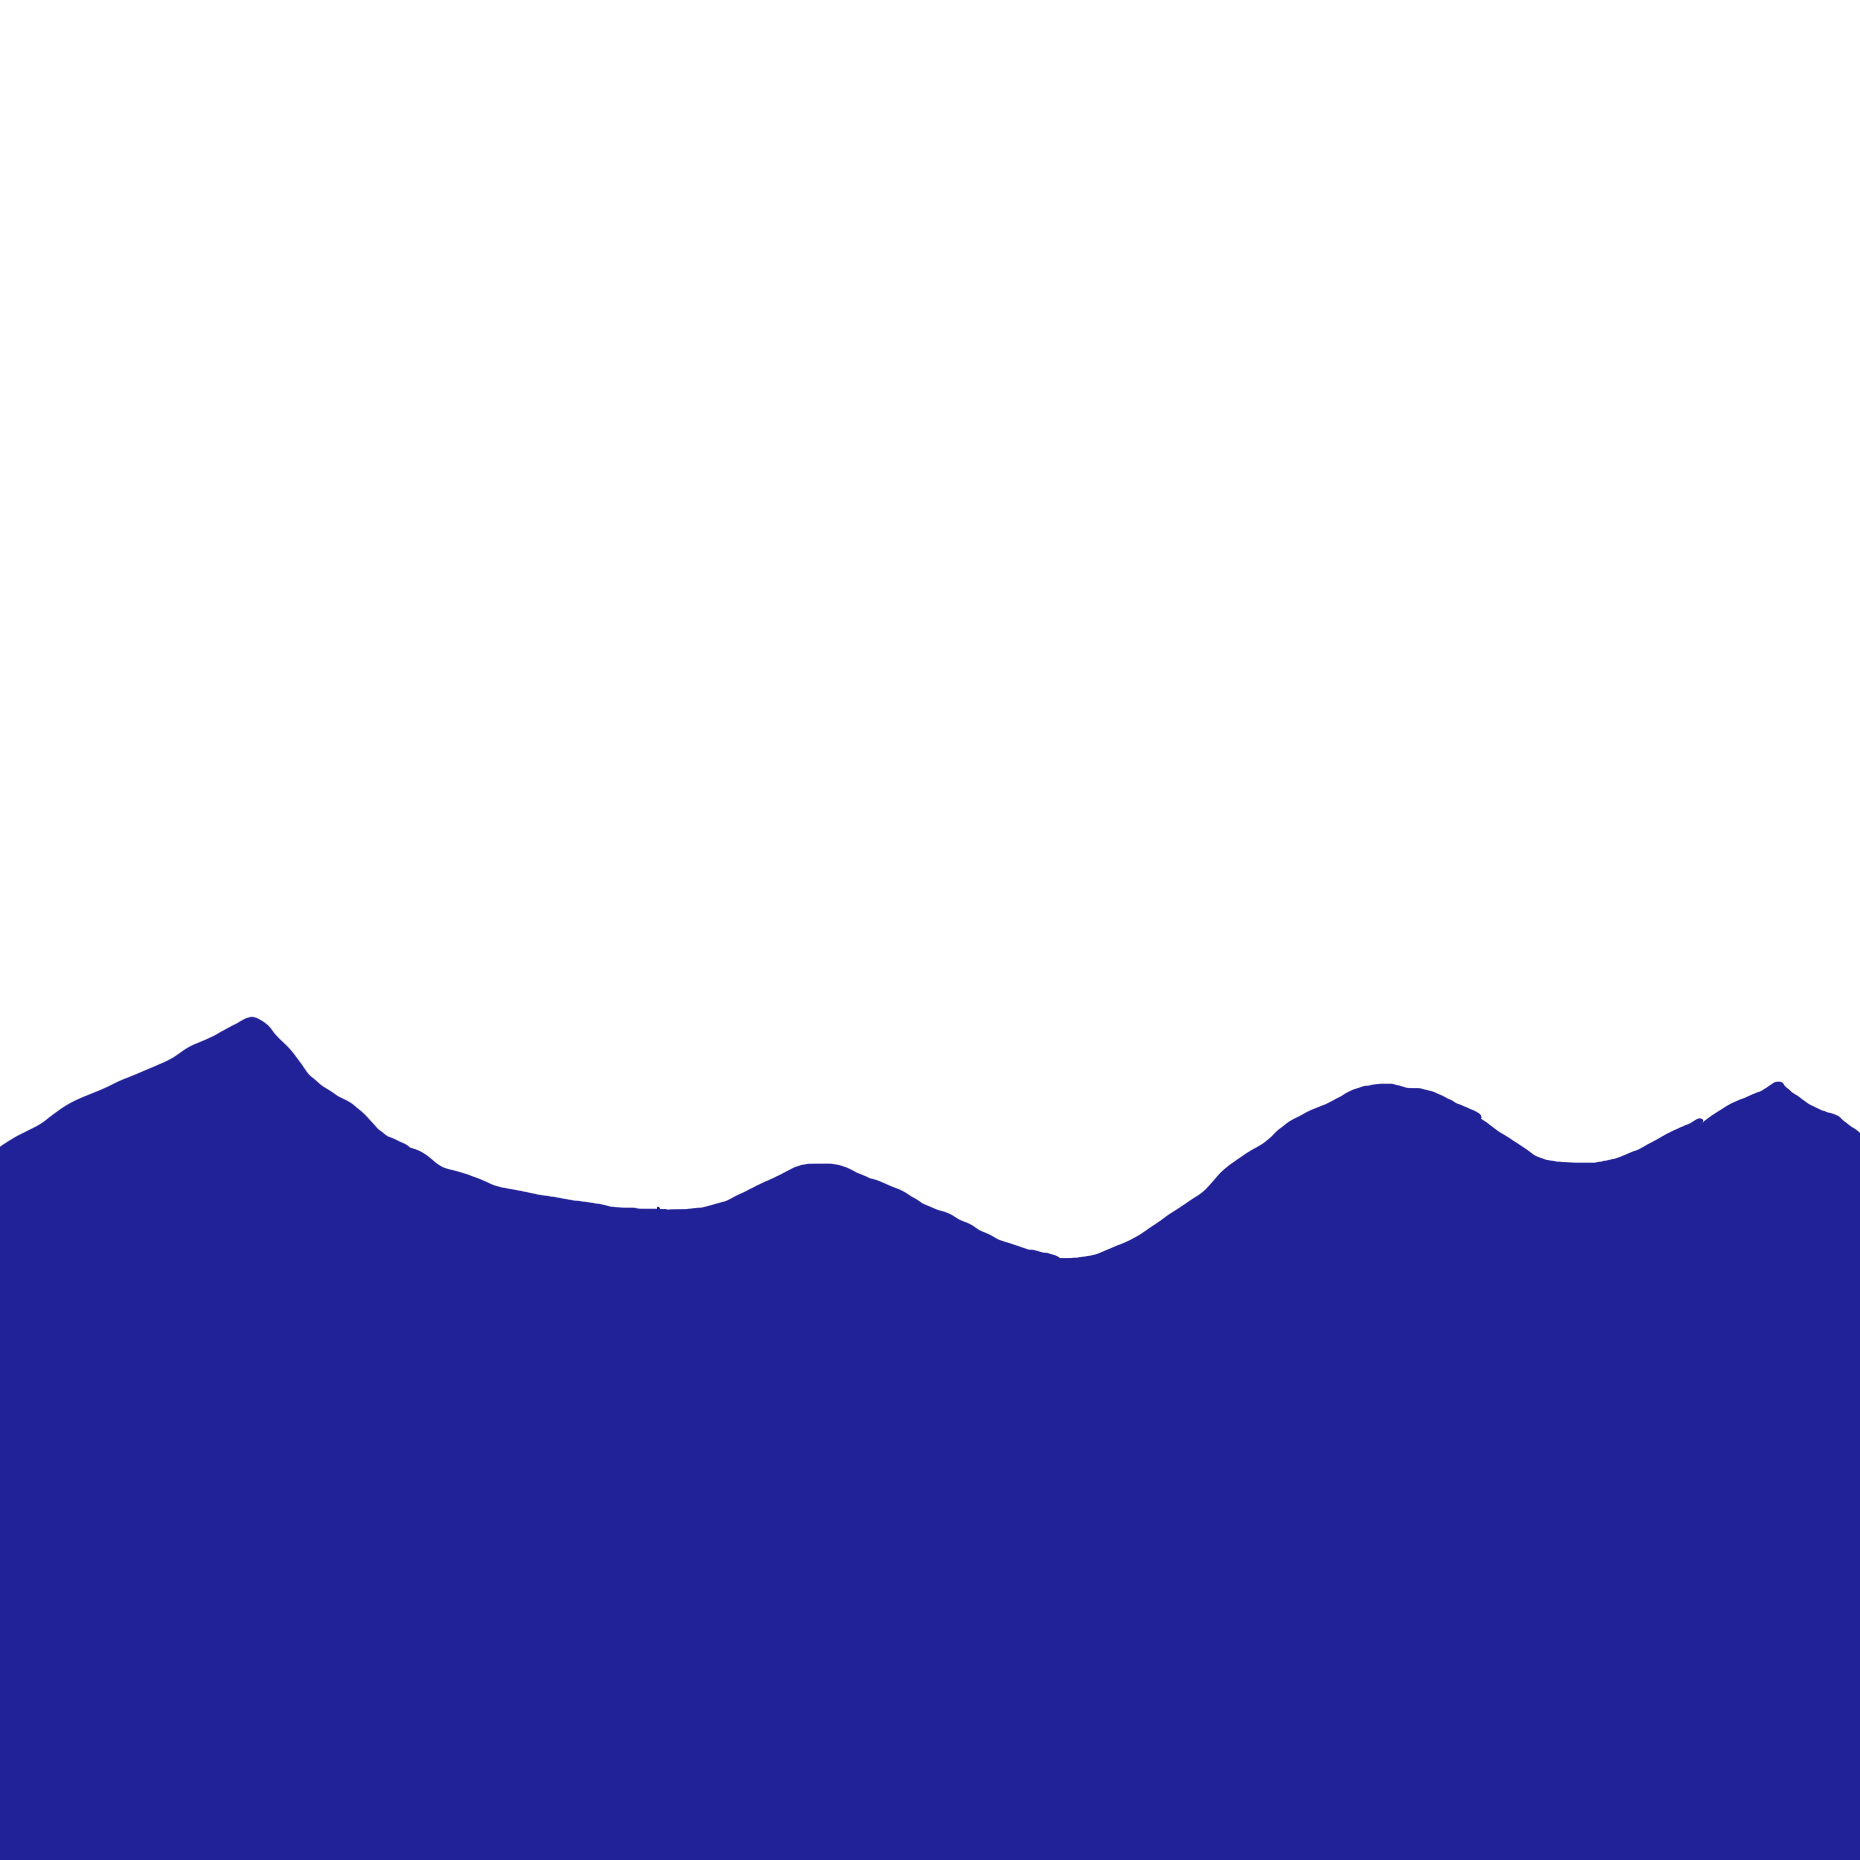
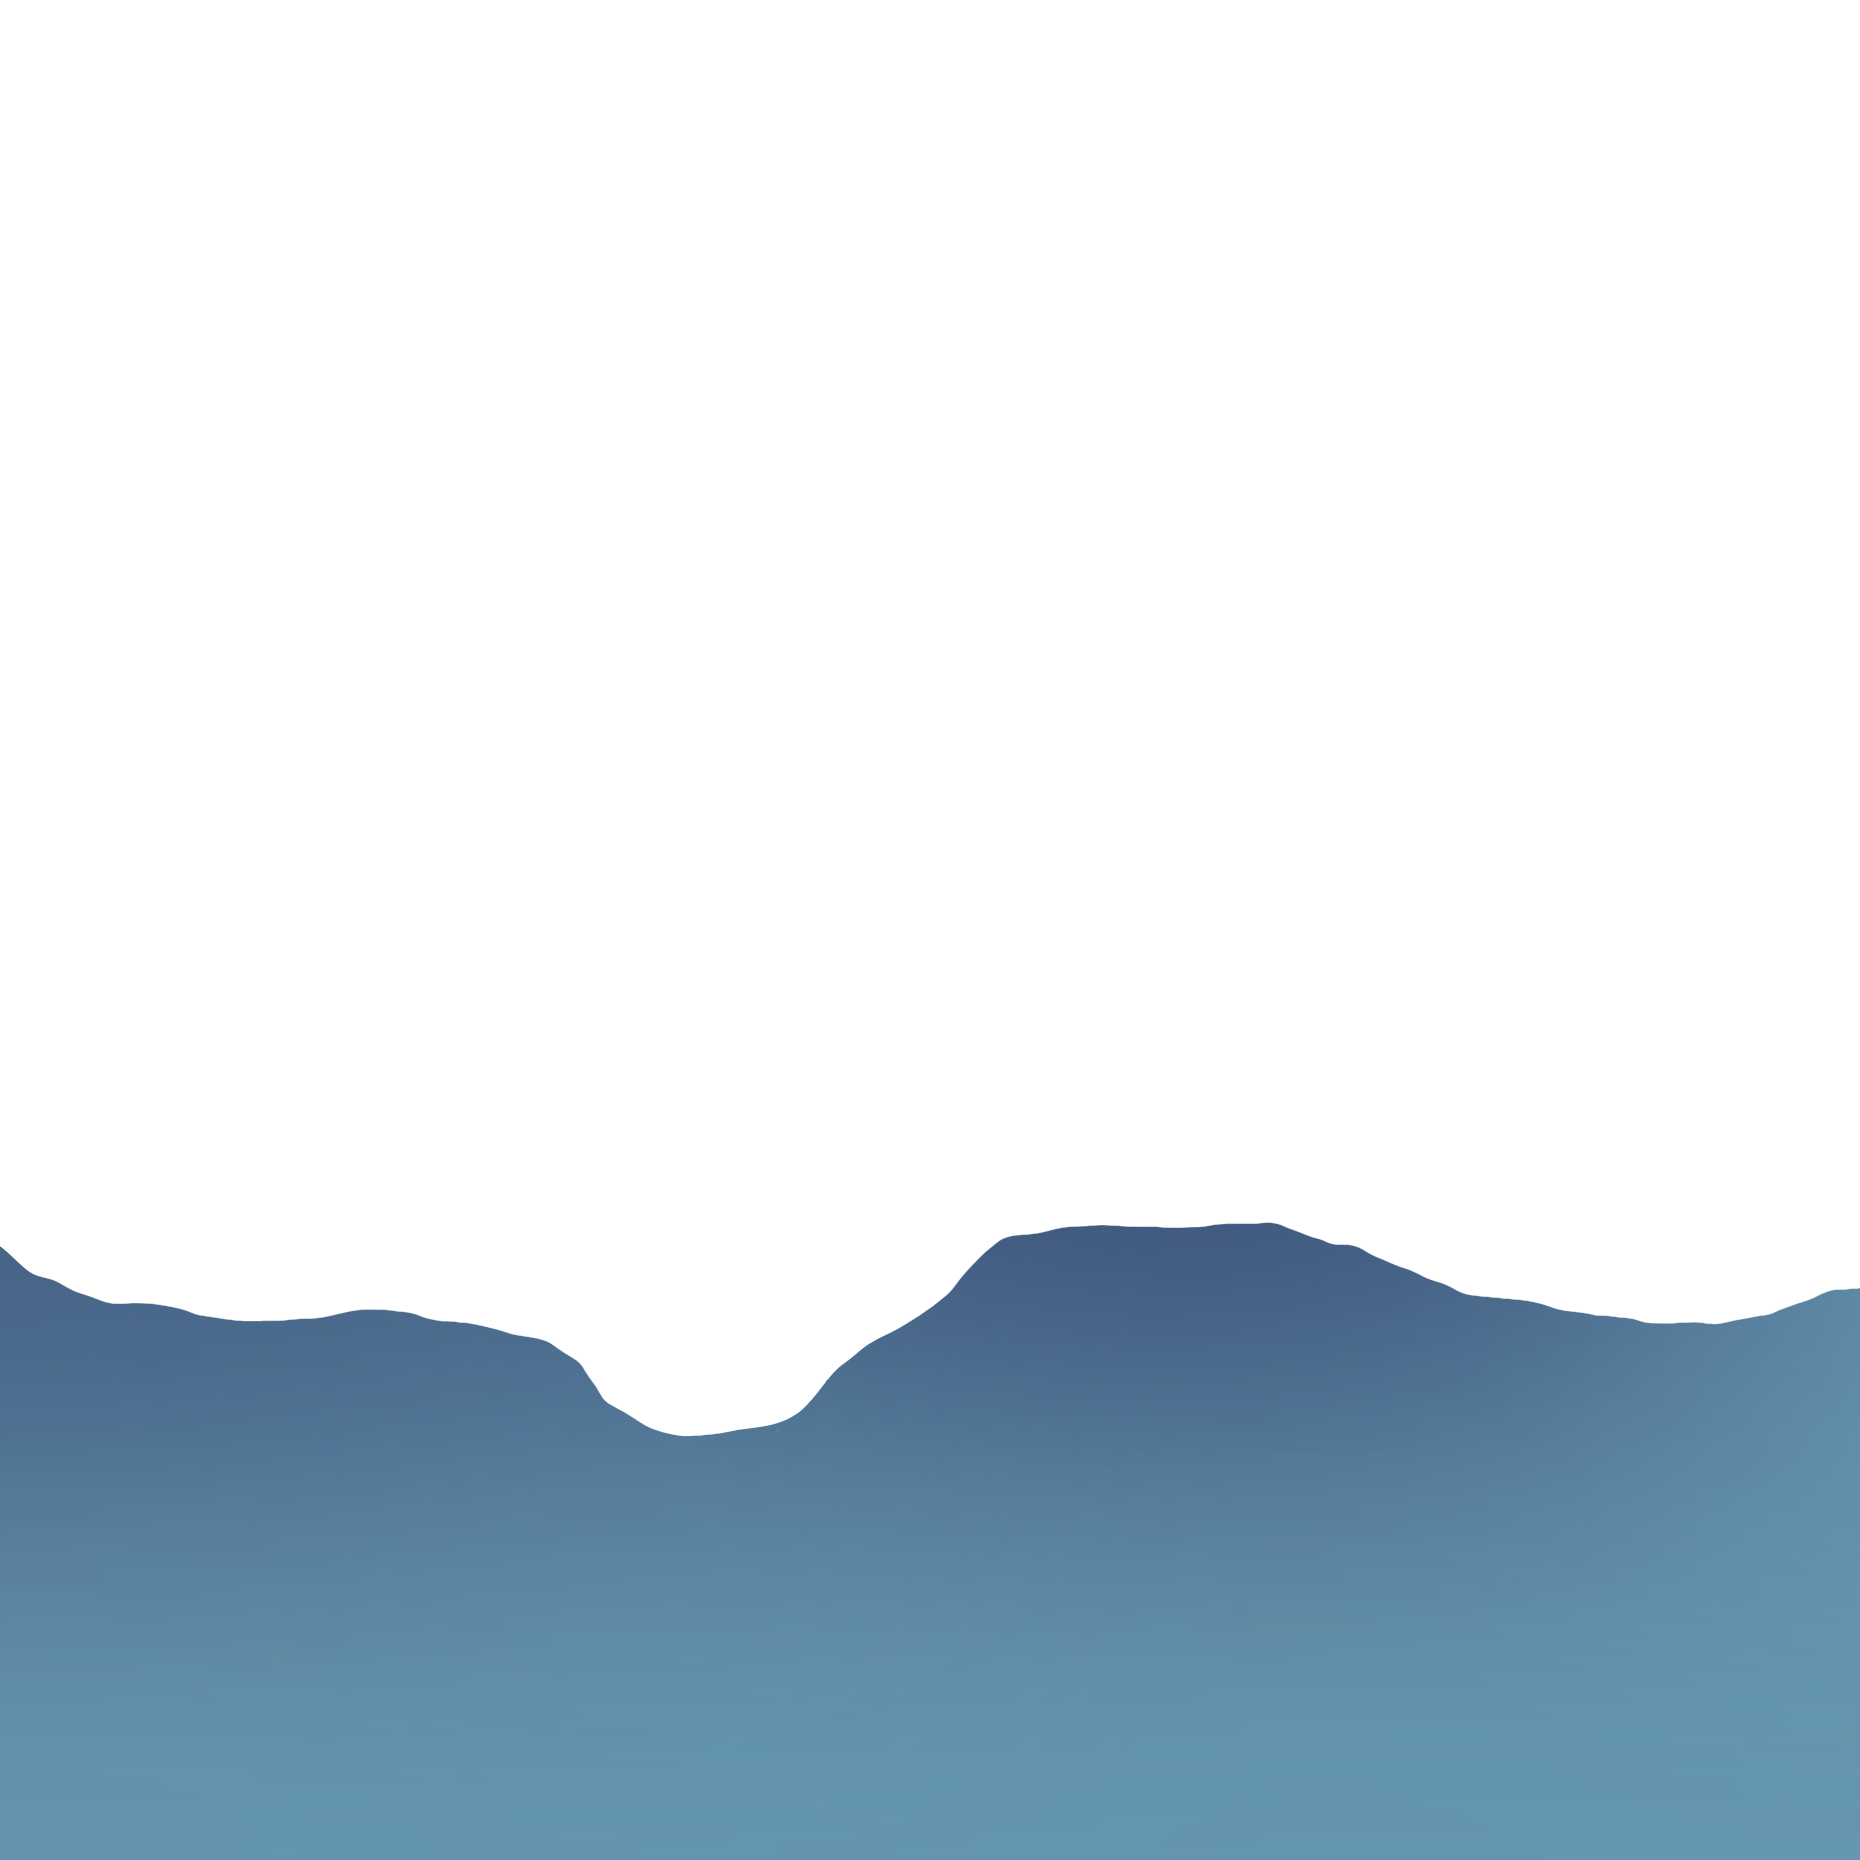
add new background

diff --git a/src/components/Title.tsx b/src/components/Title.tsx
@@ -9,6 +9,8 @@ import bg4 from '../assets/bg4.png'
 import bg5 from '../assets/bg5.png'
 import bg6 from '../assets/bg6.png'
 import bg7 from '../assets/bg7.png'
+import bg8 from '../assets/bg8.png'
+import bg9 from '../assets/bg9.png'
 import phonebg from '../assets/phonebg.png'
 import wccLogo from '../assets/WCC-logo.png'
 
@@ -26,12 +28,12 @@ export default function Title() {
   return (
     <>
       {!isMobile ? (
-        <>{[bg1, bg2, bg3, bg4, bg5, bg6, bg7].map((bg, i) => (
+        <>{[bg1, bg2, bg3, bg4, bg5, bg6, bg7, bg8, bg9].map((bg, i) => (
           <ParallaxLayer
             key={i}
             offset={0}
-            speed={[0.1, 0.2, 0.3, 0.4, 0.5, 0.7, 1][i]}
-            factor={i === 5 ? 1.5 : factor}
+            speed={[0.1, 0.2, 0.3, 0.4, 0.5, 0.6, 0.7, 0.8, 1][i]}
+            factor={i === 5 ? 2 : 2}
             style={{
               backgroundImage: `url(${bg})`,
               backgroundSize: 'cover',
@@ -50,7 +52,7 @@ export default function Title() {
         />
       )}
       <ParallaxLayer speed={0.1}>
-        <img src={wccLogo} alt="WCC Logo" className="relative w-30 md:w-50 top-10 md:top-2/12 mx-auto opacity-50" />
+        <img src={wccLogo} alt="WCC Logo" className="relative w-30 md:w-50 top-10 md:top-2/12 mx-auto opacity-80" />
       </ParallaxLayer>
       <ParallaxLayer offset={0} speed={0.1}>
         <h1 className="relative top-4/12 md:top-[50vh] translate-y-[-50%] z-10 mx-auto max-w-4xl text-center font-bold text-slate-700 text-6xl md:text-7xl dark:text-slate-300 py-4">
@@ -76,7 +78,7 @@ export default function Title() {
           initial={{ opacity: 0 }}
           animate={{ opacity: 1 }}
           transition={{ duration: 0.3, delay: 0.8 }}
-          className="relative top-4/12 md:top-[50vh] translate-y-[-50%] z-10 mx-3 md:mx-auto max-w-xl py-4 text-center text-lg font-normal text-neutral-600 dark:text-neutral-400"
+          className="relative top-4/12 md:top-[50vh] translate-y-[-50%] z-10 mx-3 md:mx-auto max-w-xl py-4 text-center text-lg font-normal text-neutral-600"
         >
           Join a community of climbers who share your passion for bouldering, sport climbing, and adventure.
         </motion.p>

diff --git a/src/components/History.tsx b/src/components/History.tsx
@@ -1,6 +1,6 @@
 export default function History() {
   return (
-    <section id="history" className="min-h-screen flex flex-col items-center justify-center bg-[#00185e] text-gray-800 dark:text-gray-200 p-6">
+    <section id="history" className="min-h-screen flex flex-col items-center justify-center bg-[#10091e] text-gray-800 dark:text-gray-200 p-6">
       <h1 className="text-4xl font-bold mb-6">Our History</h1>
       <p className="max-w-2xl text-center mb-4">
         Founded in 2020, our climbing community has grown from a small group of enthusiasts to a vibrant network of climbers. Over the years, we've organized numerous climbing sessions, competitions, and social events that have brought climbers together from all walks of life.

diff --git a/src/components/About.tsx b/src/components/About.tsx
@@ -1,7 +1,7 @@
 export default function About() {
   return (
     <section>
-      <div className="min-h-screen flex flex-col items-center justify-center bg-[#00185e] text-gray-800 dark:text-gray-200 p-6">
+      <div className="min-h-screen flex flex-col items-center justify-center bg-[#10091e] text-gray-800 dark:text-gray-200 p-6">
         <h1 className="text-4xl font-bold mb-6">About Us</h1>
         <p className="max-w-2xl text-center mb-4">
           Welcome to our climbing community! We are passionate about bouldering, sport climbing, and all things climbing-related. Our mission is to connect climbers of all levels and provide resources, events, and a supportive environment to help you reach new heights.

diff --git a/src/components/Resources.tsx b/src/components/Resources.tsx
@@ -1,7 +1,7 @@
 export default function Resources() {
   return (
     <section>
-      <div className="min-h-screen flex flex-col items-center justify-center bg-[#00185e] text-gray-800 dark:text-gray-200 p-6">
+      <div className="min-h-screen flex flex-col items-center justify-center bg-[#10091e] text-gray-800 dark:text-gray-200 p-6">
         <h1 className="text-4xl font-bold mb-6">Resources</h1>
         <p className="max-w-2xl text-center mb-4">
           Explore our curated list of climbing resources, including training tips, gear recommendations, and local climbing guides. Whether you're a beginner or an experienced climber, you'll find valuable information to enhance your climbing journey.

diff --git a/src/components/Contact.tsx b/src/components/Contact.tsx
@@ -1,7 +1,7 @@
 export default function Contact() {
   return (
     <section>
-      <div className="min-h-screen flex flex-col items-center justify-center bg-[#00185e] text-gray-800 dark:text-gray-200 p-6">
+      <div className="min-h-screen flex flex-col items-center justify-center bg-[#10091e] text-gray-800 dark:text-gray-200 p-6">
         <h1 className="text-4xl font-bold mb-6">Contact Us</h1>
         <p className="max-w-2xl text-center mb-4">
           We would love to hear from you! Whether you have questions, feedback, or want to get involved with the climbing community, feel free to reach out to us at <a href="mailto:info@climbingcommunity.com">info@climbingcommunity.com</a>.

diff --git a/src/components/Sponsors.tsx b/src/components/Sponsors.tsx
@@ -1,6 +1,6 @@
 export default function Sponsors() {
   return (
-    <section id="sponsors" className="min-h-screen flex flex-col items-center justify-center bg-[#00185e] text-gray-800 dark:text-gray-200 p-6">
+    <section id="sponsors" className="min-h-screen flex flex-col items-center justify-center bg-[#10091e] text-gray-800 dark:text-gray-200 p-6">
       <h1 className="text-4xl font-bold mb-6">Our Sponsors</h1>
       <p className="max-w-2xl text-center mb-4">
         We are grateful for the generous support of our sponsors who help us provide a vibrant climbing community. If you are interested in becoming a sponsor, please contact us for more information.

diff --git a/src/components/Events.tsx b/src/components/Events.tsx
@@ -1,7 +1,7 @@
 export default function Events() {
   return (
     <section>
-      <div className="min-h-screen flex flex-col items-center justify-center bg-[#00185e] text-gray-800 dark:text-gray-200 p-6">
+      <div className="min-h-screen flex flex-col items-center justify-center bg-[#10091e] text-gray-800 dark:text-gray-200 p-6">
         <h1 className="text-4xl font-bold mb-6">Events</h1>
         <p className="max-w-2xl text-center mb-4">
           Stay tuned for upcoming climbing events, workshops, and meetups! We regularly host activities for climbers of all skill levels. Check back soon for more details.

diff --git a/src/index.css b/src/index.css
@@ -1,5 +1,5 @@
 @import 'tailwindcss';
 
 body {
-  background-color: #00185e;
+  background-color: #10091e;
 }
